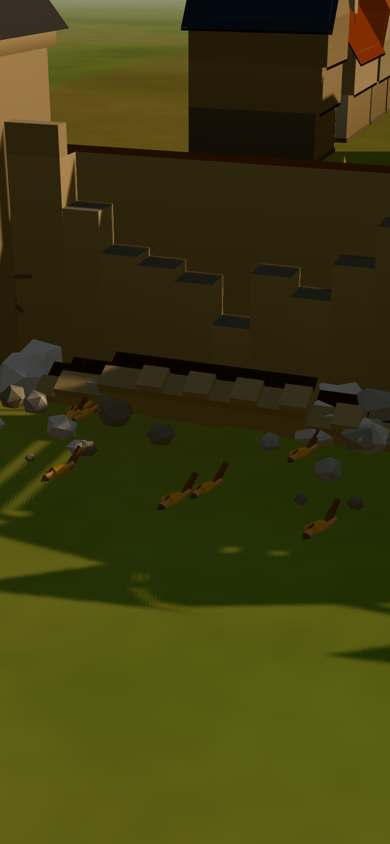
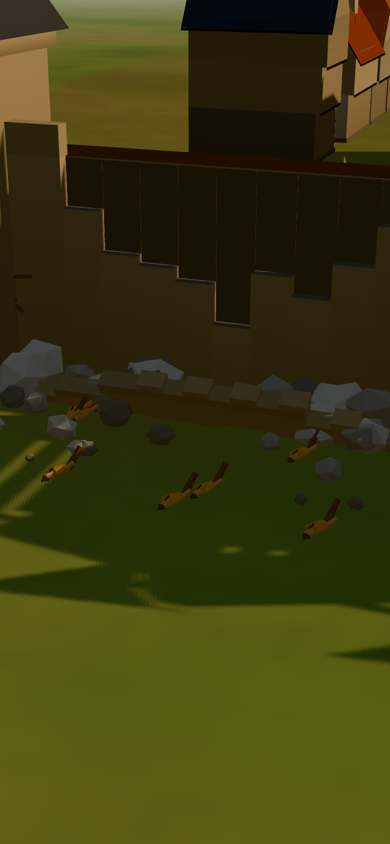
docs: пролом полосой у грани, находки независимой проверки; снимок 37 заново
Claude-Session: https://claude.ai/code/session_014evzueQhLxD7EK4mnnJmcC

diff --git a/docs/battle_tw.md b/docs/battle_tw.md
@@ -658,8 +658,11 @@ wolves-last,sortie,camp,joint,lair,lair-clash`).
     (`barrage.test.ts` печатать не нужно — выводится из `BARRAGE_INTRO`, `BARRAGE_ROUND` и полёта камня).
 28. **Пролом — та же доля, что у ядра, по куску на залп.** Ширина — 20 м на долю пробитой стены (20 % — 4 м, 30 % — 6 м, 35 % —
     7 м), каждый залп добавляет свою долю по краям; глубина клина — от половины до 0.82 высоты стены. Пролом — в пролёте
-    между башнями, не в воротах и не в башне, подальше от лестниц (тест); наружная половина опущена, внутренняя держит ход —
-    защитники стоят там же, где в бою без обстрела (план боя тот же).
+    между башнями, не в воротах и не в башне, подальше от лестниц (тест); не влезает ни в один пролёт — ужат под самый
+    длинный. Опущена **полоса у наружной грани в 0.26 м** (`BREACH_BAND`): передняя шеренга стоит на ходу в 0.42 м от грани
+    (`CONTACT_HALF`), план боя тот же — и над пустотой никто не висит (находка независимой проверки: при опущенной половине
+    стены передняя шеренга стояла в воздухе). Пролом поэтому — сбитые зубцы, парапет и рваная облицовка с осыпью у подножия:
+    у ядра он и есть не дыра, а доля стены, на которой больше не стоят.
 29. **Сбитые со стены — доля `wallMen`.** Пролом у ядра снимает со стены долю `b` ополчения: к оставшимся на ходу снятые —
     `b / (1 − b)`. Столько фигур (по фигурам стоящих на стене пеших отрядов, потолок 3 / 8 / 12 по уровню) стоит на ходу у
     куска до обвала и падает наружу; лежат у подножия и в бою. Тест — с малыми штурмами, где доля не упирается в потолок
@@ -687,6 +690,11 @@ wolves-last,sortie,camp,joint,lair,lair-clash`).
 на Adreno 618 не измерена** (в облаке нет видеокарты): +20 вызовов на «Среднем» — мелкие инстансы и рамы, треугольников +2 %.
 **Первая загрузка** (`npm run build`): 557.4 КБ на `origin/master` `fb05d00` → 557.5 КБ (+0.1 КБ); пролог — своим ленивым куском
 вместе с роликом (`barrage`, 6.0 КБ gzip).
+
+**Независимая проверка диффа** (подагент, только чтение): защитники над проломом (решение 28), обратный ключ камеры при
+одном залпе (ключи — не ближе перехода, 1.3 с), звук обвала в нуле по Z, неотпущенный меш добавочных фигур, пачка звуков на
+«Пропустить» (скачок часов звука теперь — 0.5 с, больше кадра на ×4), пролом без места, выделения памяти в кадре, длина
+ролика на стенде без пролога, берег прибоя без снимка в ключе — исправлено одним коммитом.
 
 **Снимки** — `npm run tw:shots`, `SHOTS=bombard,bombard-loose,bombard-impact,bombard-collapse,bombard-fall,bombard-breach,
 bombard-wall,bombard-engine,bombard-lair,bombard-lair-top` (стенд: `&shots=1..3`, моменты `bombard|loose|impact|collapse|fall|
